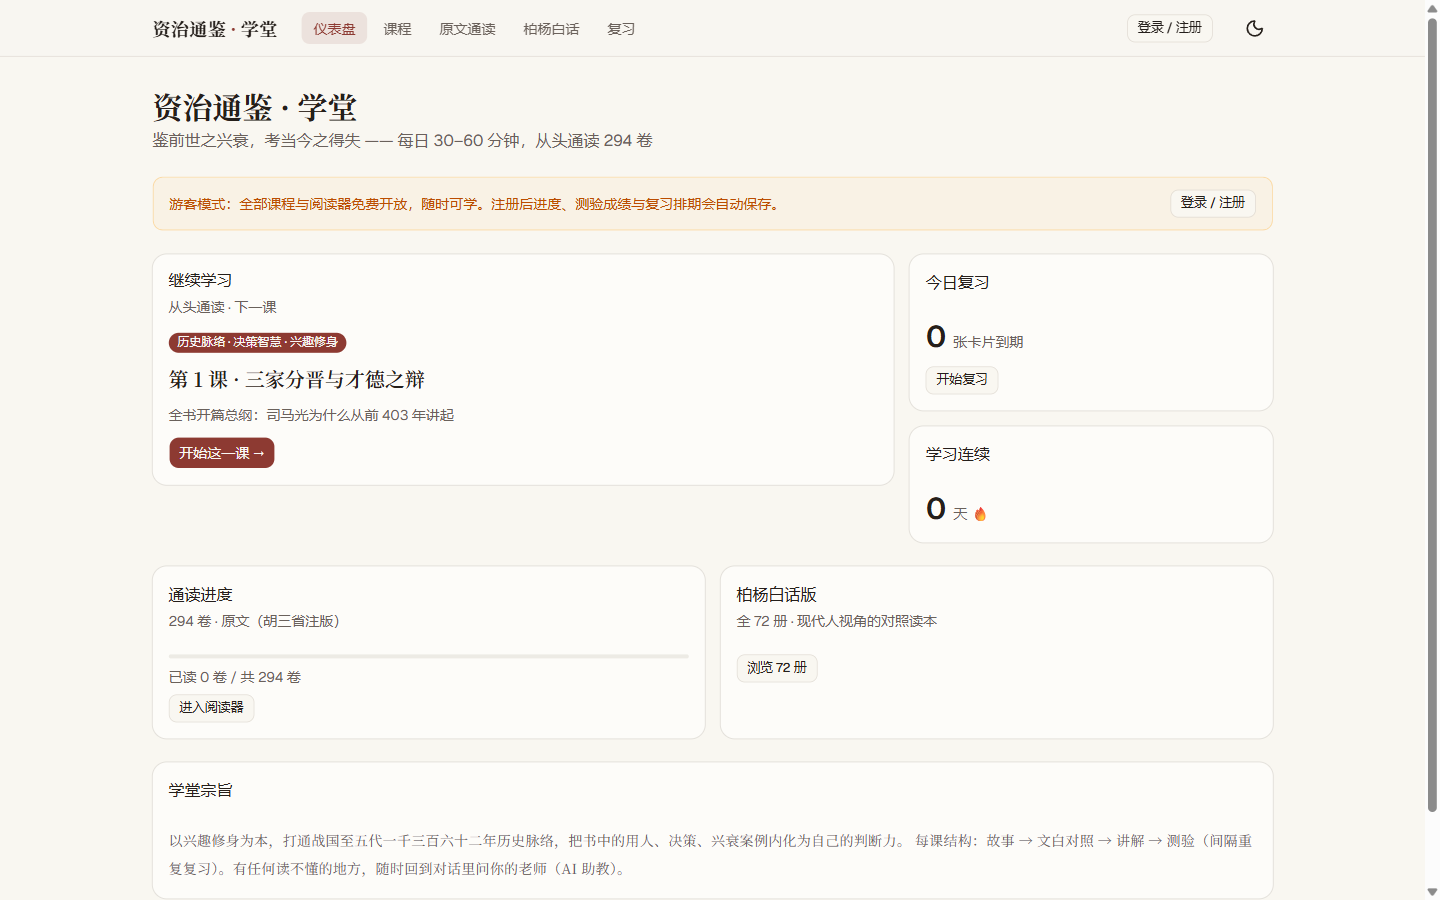
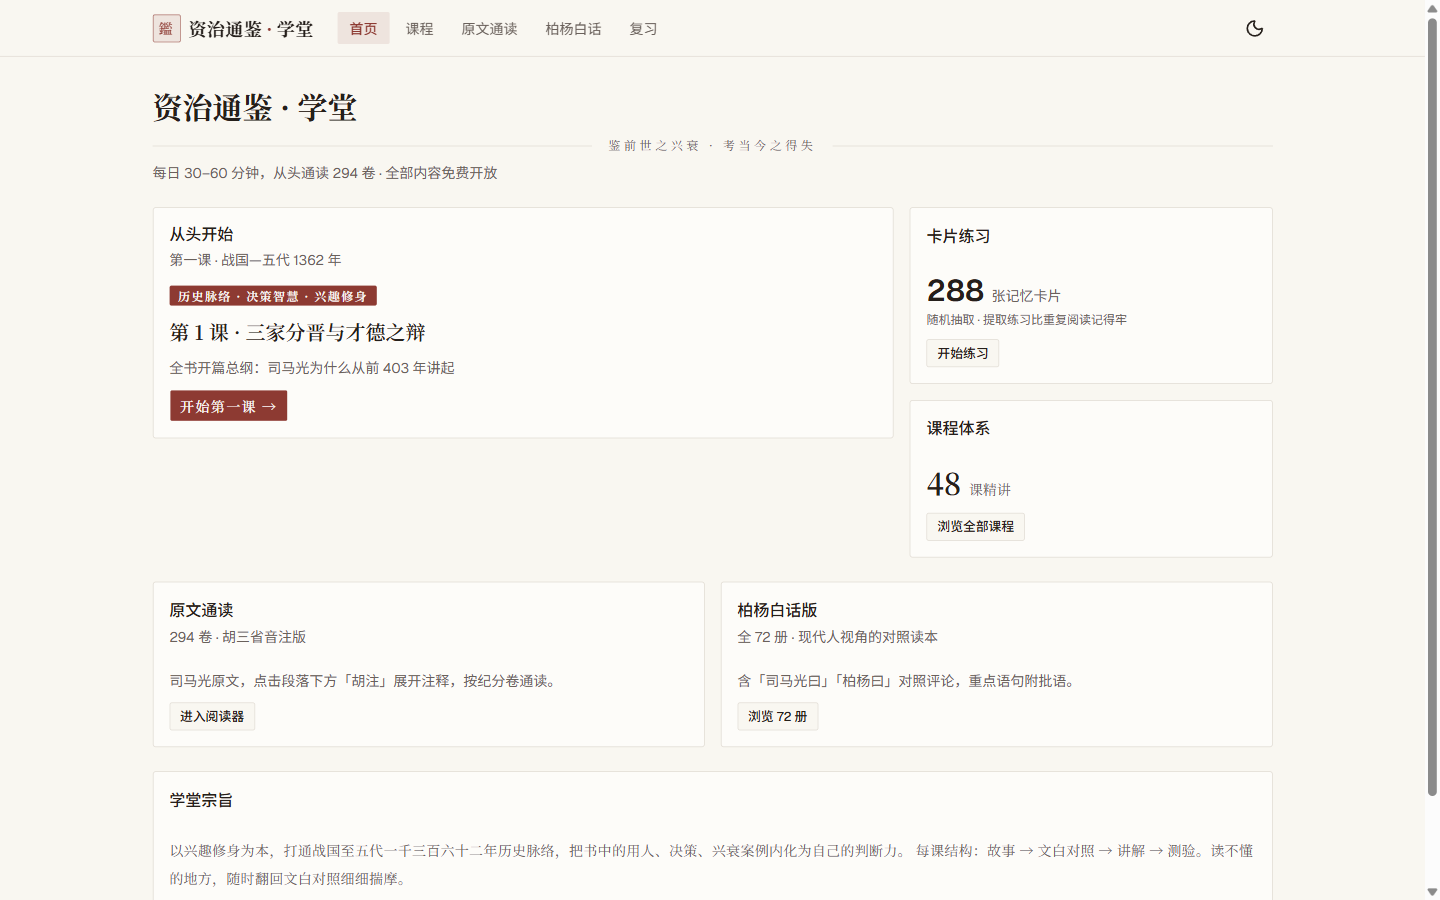
docs: README 对齐纯静态新版——上线地址 zztj.yongkong.dev 与改版后截图
- 顶部增加在线阅读地址；截图更新为改版后实拍（1440x900，课程页整页）
- 功能/快速开始/内容管线/技术栈改为 Next.js 静态导出架构（移除多用户 SQLite 描述）
- 课程清单路径更新为 app/content-src/curriculum.md

diff --git a/README.md b/README.md
@@ -1,37 +1,40 @@
 # 资治通鉴 · 学堂
 
+**在线阅读：<https://zztj.yongkong.dev>** —— 无需注册登录，全部内容免费开放。
+
 以**胡三省音注版**《资治通鉴》为原文底本、**柏杨白话版（全 72 册）**为对照译文的公共学习网站：
-48 节结构化课程贯穿三家分晋到赵宋前夜 1,362 年，配合文白对照阅读器与间隔重复复习。
-**游客无需注册即可学习全部内容**——注册只为保存学习进度。
+48 节结构化课程贯穿三家分晋到赵宋前夜 1,362 年，配合文白对照阅读器与卡片提取练习。
+纯静态站：`next build` 一次导出 650+ 个预渲染页面，可部署到任意静态托管。
 
 | | |
 | --- | --- |
-| ![仪表盘](docs/screenshots/dashboard.png) | ![课程](docs/screenshots/lessons-grid.png) |
-| ![文白对照](docs/screenshots/lesson-passage.png) | ![测验](docs/screenshots/lesson-quiz.png) |
-| ![柏杨白话](docs/screenshots/boyang-section.png) | ![原文通读](docs/screenshots/reader-volume.png) |
+| ![首页](docs/screenshots/dashboard.png) | ![课程](docs/screenshots/lessons-grid.png) |
+| ![本课速览](docs/screenshots/lesson-overview.png) | ![文白对照](docs/screenshots/lesson-passage.png) |
+| ![随堂测验](docs/screenshots/lesson-quiz.png) | ![卡片复习](docs/screenshots/review.png) |
+| ![原文通读](docs/screenshots/reader-volume.png) | ![柏杨白话](docs/screenshots/boyang-section.png) |
 
 ## 功能
 
-- **48 节课程**：每课 = 故事讲解 → 文白对照选段 → 决策启示（管理/工作/生活/学习四场景）→ 6 题测验（答错自动进复习队列）
-- **文白对照**：原文/柏杨白话/对照三种阅读模式；胡三省〔〕注折叠展开；重点句黄色高亮，悬停看一句话点评
-- **原文通读**：294 卷按纪分组浏览，公元年份锚点分段，标记已读计入进度，一键跳到对应柏杨白话章节
+- **48 节课程**：每课 = 三点速览 → 故事讲解 → 文白对照选段 → 决策启示（管理/工作/生活/学习四场景）→ 6 题随堂测验（即时判分与解析）
+- **文白对照**：原文/柏杨白话/对照三种阅读模式；胡三省〔〕注折叠展开；重点句藤黄高亮，悬停看批语
+- **原文通读**：294 卷按纪分组浏览，公元年份锚点分段，胡注逐段折叠，一键跳到对应柏杨白话章节
 - **柏杨白话**：72 册 → 年代章节浏览；年份表头、各国纪年对照、司马光曰（朱线引文）、柏杨曰（底色块）分区排版
-- **复习**：SM-2 简化版间隔重复，三档评分（忘了/记得/很简单），复习卡片由课程测验自动生成
-- **多用户**：进度、测验成绩、复习排期全部按账号隔离存 SQLite；游客模式各写入点本地生效、绝不挡路
+- **卡片复习**：288 张记忆卡片随机抽 20 张，先回想再看答案的提取练习（忘了/记得/很简单三档自评）
+- **纯静态**：无登录、无进度记录、无服务端——打开即学，构建产物扔到任何静态托管即可运行
 
 ## 快速开始
 
 ```bash
 cd app
 npm install
-npm run build     # 构建前端
-npm start         # http://localhost:3001
+npm run dev        # 开发模式 http://localhost:3000
+npm run build      # 全站静态导出到 out/（650+ 页）
+npm run preview    # 本地起静态服务器预览 out/
 ```
 
-- **语料**：`app/data/tongjian.db` 不入库（含用户数据）。需要用自备的两套 EPUB 跑 `npm run ingest` 重建，见 [app/README.md](app/README.md)
-- Windows 下 `better-sqlite3` 无预编译二进制时需本地 `node-gyp rebuild`（详见 [app/README.md](app/README.md)）
-- 旧单用户数据启动时自动迁入默认账号 `local`（密码 `local1234`），也可直接注册新账号
-- 开发热更新：`npm run dev`（5173，/api 代理到 3001）
+- 课程与语料以静态 JSON 形式提交在 `app/content/`，构建与运行都不需要数据库
+- 重新解析 EPUB 语料（需自备两套电子书）见 [app/README.md](app/README.md)
+- 加一课的完整流程见下方「内容管线」
 
 ## 课程体系（48 课）
 
@@ -46,24 +49,30 @@ npm start         # http://localhost:3001
 | 东汉 | 15–19（光武 · 班超 · 外戚 · 党锢 · 黄巾） | 隋 | 37–38（开皇 · 大运河） |
 | | | 唐 / 五代 | 39–48（贞观 · 武则天 · 开元 · 安史 · 元和 · 甘露 · 黄巢 · 唐末 · 五代 · 柴荣） |
 
-完整清单（slug / 语料定位 / 主题）见 [`app/server/content/curriculum.md`](app/server/content/curriculum.md)。
+完整清单（slug / 语料定位 / 主题）见 [`app/content-src/curriculum.md`](app/content-src/curriculum.md)。
 
 ## 内容管线：加一课 = 加一个目录
 
-课程不是代码，是**数据**。每课一个目录 `app/server/content/lessons/<slug>/`：
+课程不是代码，是**数据**。每课一个目录 `app/content-src/lessons/<slug>/`：
 
 ```
 lesson.json      # 速览 / 讲解块 / 文白对照选段 / 启示 / 测验
-highlights.json  # 重点句高亮 + 点评
+highlights.json  # 重点句高亮 + 批语
 ```
 
-语料引用使用**锚文本寻址**：段落前缀 ≥6 字、卷/册内唯一，启动时解析为段落序号——
-ingest 重建导致的序号漂移会在启动时显式报错（fail fast），而不是静默显示错误段落。
-写好课程文件后跑 `npm run content:check` 全绿即可上线；复习卡片按题面三向同步，改题不丢进度。
+语料引用使用**锚文本寻址**：段落前缀 ≥6 字、卷/册内唯一，导出时解析为段落序号——
+ingest 重建导致的序号漂移会在导出/校验时显式报错（fail fast），而不是静默显示错误段落。
+写好课程文件后 `npm run content:check` 全绿，再 `npm run content:export && npm run build` 即可上线。
+
+```
+EPUB ──ingest.py──▶ data/tongjian.db ──content:export──▶ content/（静态 JSON, 提交进仓库）
+content-src/lessons/<slug>/（课程源, 文件事实源）─────────┘        │
+                                                        next build 构建期读取
+```
 
 ## 技术栈
 
-React 19 + Vite + Tailwind CSS 4 + shadcn/ui ｜ Node + Express 5 ｜ SQLite (better-sqlite3) ｜ Python 标准库解析 EPUB（294 卷 / 32,725 段 + 72 册 / 55,571 段语料）
+Next.js 16（App Router，`output: 'export'` 全静态导出）+ React 19 + Tailwind CSS 4 + shadcn/ui ｜ Python 标准库解析 EPUB（294 卷 / 32,725 段 + 72 册 / 231 章节 / 55,571 段语料）→ Node 导出静态 JSON ｜ 本站部署于 Cloudflare Pages
 
 架构与目录结构详情见 [app/README.md](app/README.md)。
 
